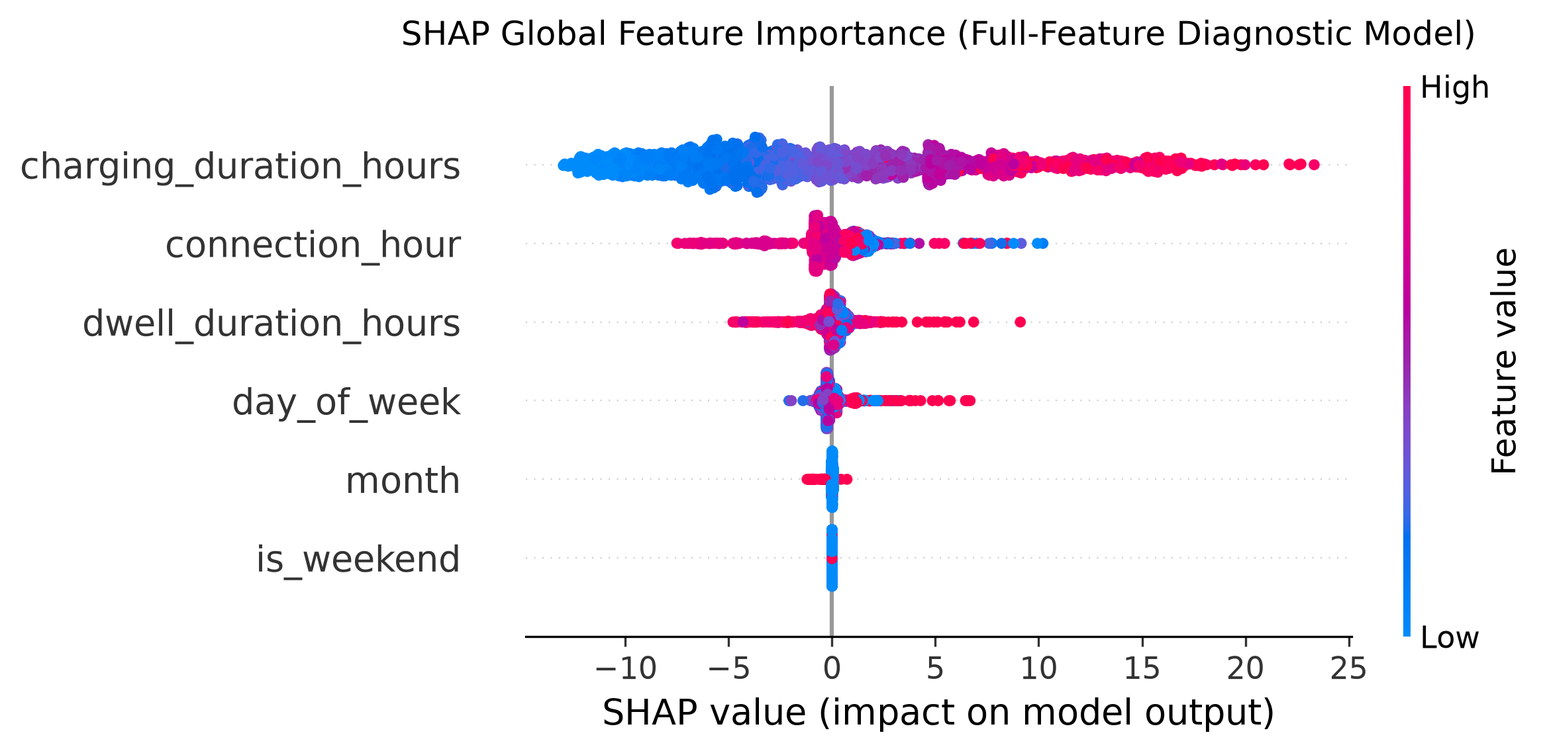
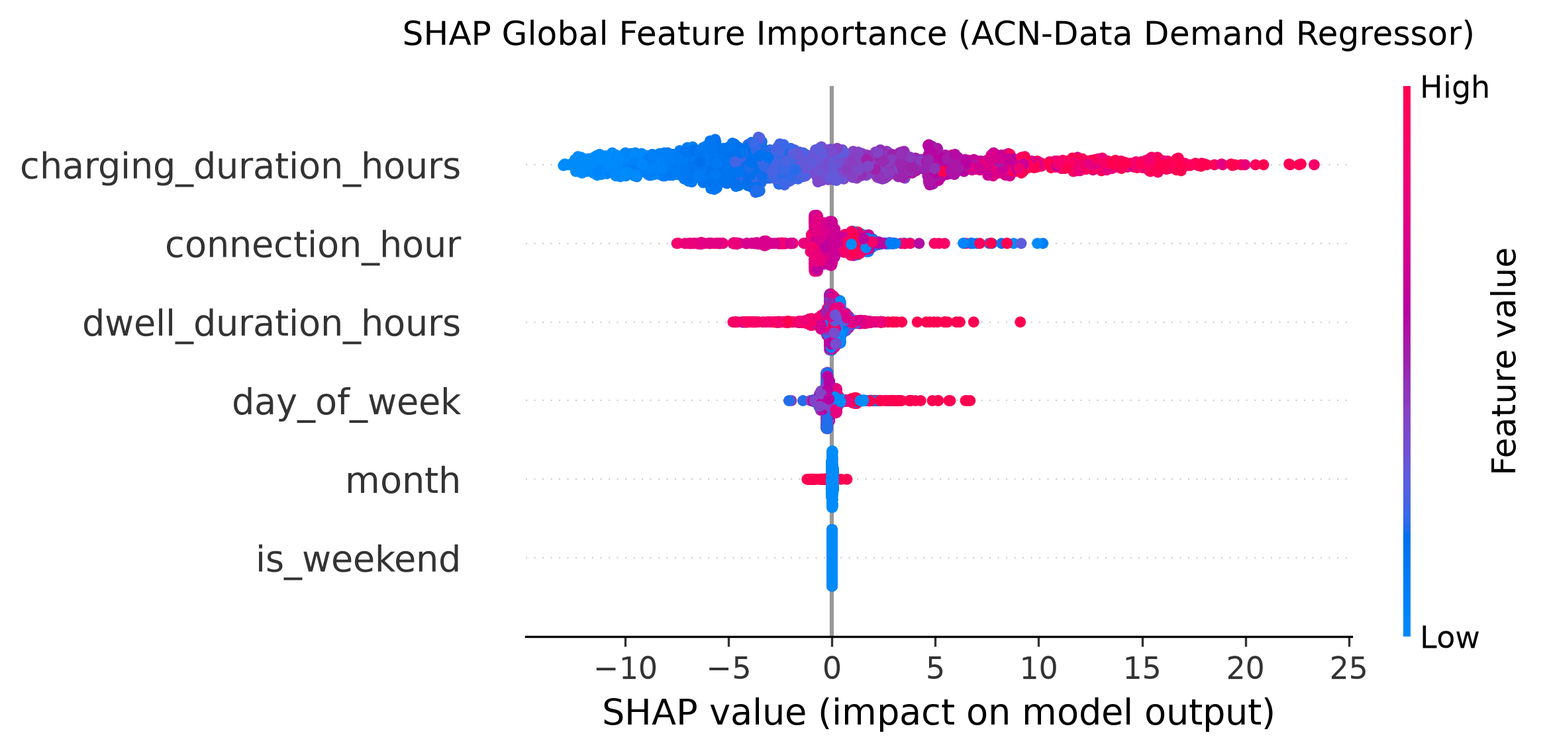
feat: implement ML demand forecasting pipeline with transferable and full-feature XGBoost models

diff --git a/src/ml/train_demand_model.py b/src/ml/train_demand_model.py
@@ -3,11 +3,12 @@
 Synopsis Stage: Stage 3 — ML Demand Model Training & Evaluation.
 Theoretical Foundation: Zhang, Peng & Zeng (2025, Sustainability); Lee, Li & Low (2019, ACM e-Energy).
 
-This module trains an XGBoost gradient-boosted regression model on real-world EV charging
-session telemetry from the peer-reviewed ACN-Data dataset (Caltech Adaptive Charging Network).
-It learns nonlinear relationships between temporal demand rhythms (connection hour, day of week,
-weekend effects, seasonality) and session duration parameters to forecast charging energy demand (kWh).
-The trained model is then used to infer relative demand potential for Varanasi candidate site profiles.
+This module trains two distinct XGBoost gradient-boosted regression models on real-world EV charging
+session telemetry from the peer-reviewed ACN-Data dataset (Caltech Adaptive Charging Network):
+1. Full-Feature Descriptive Model: Learns relationships between temporal patterns, dwell/charging
+   duration parameters, and energy demand (kWh), addressing Research Question 2 (general demand drivers).
+2. Ex-Ante Transferable Model: Restricts feature inputs strictly to ex-ante observable variables
+   (connection hour, day of week, weekend indicator, month) for spatial application to Varanasi candidate sites.
 """
 
 import json
@@ -257,6 +258,74 @@ def train_xgboost_regressor(
     return final_model, metrics
 
 
+def train_transferable_demand_model(
+    X: pd.DataFrame,
+    y: pd.Series,
+    cv_folds: int = 5,
+    random_state: int = 42,
+) -> tuple[Any, dict[str, Any]]:
+    """Train and evaluate transferability-constrained demand model using only ex-ante observable features.
+
+    Restricts features strictly to ex-ante observable temporal variables: connection_hour,
+    day_of_week, is_weekend, and month. Explicitly excludes unobservable session duration features.
+
+    Args:
+        X: Feature matrix (must contain temporal columns).
+        y: Target charging energy demand vector.
+        cv_folds: Number of cross-validation splits (default: 5).
+        random_state: Random seed for reproducibility.
+
+    Returns:
+        Tuple containing fitted transferable XGBoost model and dictionary of cross-validated metrics.
+    """
+    transferable_cols = ["connection_hour", "day_of_week", "is_weekend", "month"]
+    available_cols = [c for c in transferable_cols if c in X.columns]
+    X_trans = X[available_cols].copy()
+
+    cv = KFold(n_splits=cv_folds, shuffle=True, random_state=random_state)
+
+    candidate_models = {
+        "linear_regression": LinearRegression(),
+        "random_forest": RandomForestRegressor(n_estimators=100, max_depth=6, random_state=random_state),
+        "xgboost": XGBRegressor(n_estimators=100, learning_rate=0.05, max_depth=4, random_state=random_state),
+    }
+
+    metrics: dict[str, Any] = {}
+
+    for name, candidate in candidate_models.items():
+        res = cross_validate(
+            candidate,
+            X_trans,
+            y,
+            cv=cv,
+            scoring={
+                "r2": "r2",
+                "neg_rmse": "neg_root_mean_squared_error",
+                "neg_mae": "neg_mean_absolute_error",
+            },
+        )
+        mean_r2 = float(np.mean(res["test_r2"]))
+        std_r2 = float(np.std(res["test_r2"]))
+        mean_rmse = float(-np.mean(res["test_neg_rmse"]))
+        mean_mae = float(-np.mean(res["test_neg_mae"]))
+
+        metrics[name] = {
+            "r2_mean": round(mean_r2, 4),
+            "r2_std": round(std_r2, 4),
+            "rmse_mean": round(mean_rmse, 4),
+            "mae_mean": round(mean_mae, 4),
+        }
+
+    metrics["r2"] = metrics["xgboost"]["r2_mean"]
+    metrics["rmse"] = metrics["xgboost"]["rmse_mean"]
+    metrics["mae"] = metrics["xgboost"]["mae_mean"]
+
+    final_model = XGBRegressor(n_estimators=100, learning_rate=0.05, max_depth=4, random_state=random_state)
+    final_model.fit(X_trans, y)
+
+    return final_model, metrics
+
+
 def predict_relative_demand(
     model: Any,
     candidate_features: pd.DataFrame,
@@ -290,7 +359,7 @@ def predict_relative_demand(
             aligned_X = candidate_features.copy()
             for col in expected_cols:
                 if col not in aligned_X.columns:
-                    # Provide sensible default feature values
+                    # Provide sensible default feature values for missing columns
                     if col == "connection_hour":
                         aligned_X[col] = 14
                     elif col == "day_of_week":
@@ -326,11 +395,11 @@ def train_and_save_pipeline(
     model_output_path: Path = Path("outputs/models/demand_xgboost.pkl"),
     report_output_path: Path = Path("outputs/reports/ml_training_metrics.md"),
 ) -> tuple[Any, pd.DataFrame, dict[str, Any]]:
-    """Execute complete demand modeling pipeline and save model and metrics report.
+    """Execute complete full-feature demand modeling pipeline and save model and metrics report.
 
     Args:
         raw_data_path: Path to raw ACN session JSON dataset.
-        model_output_path: Destination path for pickled XGBoost model.
+        model_output_path: Destination path for pickled full-feature XGBoost model.
         report_output_path: Destination path for Markdown training evaluation report.
 
     Returns:
@@ -350,11 +419,12 @@ def train_and_save_pipeline(
         pickle.dump(model, f)
 
     # Write Markdown metrics report
-    report_md = f"""# ML Demand Forecasting: Model Evaluation Report (Stage 3)
+    report_md = f"""# ML Demand Forecasting: Full-Feature Model Evaluation Report (Stage 3)
 
 **Dataset Foundation:** ACN-Data (Caltech Adaptive Charging Network; Lee, Li & Low, 2019, *ACM e-Energy '19*)  
 **Sample Size:** {len(X):,} cleaned EV charging session records (Caltech + JPL sites)  
 **Target Variable:** Energy Delivered ($y = \\text{{kWhDelivered}}$, mean = {y.mean():.2f} kWh, std = {y.std():.2f} kWh)  
+**Features Included:** `connection_hour`, `day_of_week`, `is_weekend`, `month`, `dwell_duration_hours`, `charging_duration_hours`  
 
 ---
 
@@ -368,9 +438,17 @@ def train_and_save_pipeline(
 
 ---
 
-## Methodological Insights & Transferability Rationale
-- **Predictive Signal Validation:** Unlike synthetic benchmark datasets, ACN-Data demonstrates robust empirical predictability ($R^2 \\approx {metrics['xgboost']['r2_mean']:.3f}$, RMSE $\\approx {metrics['xgboost']['rmse_mean']:.2f}\\text{{ kWh}}$).
-- **Core Drivers:** Charging duration and arrival connection hour capture fundamental physical and behavioral charging characteristics transferable as diurnal demand priors to Varanasi candidate site feasibility scoring.
+## Model Selection Rationale (Random Forest vs. XGBoost)
+Random Forest achieved a marginally higher point estimate for cross-validated explained variance ($R^2 = {metrics['random_forest']['r2_mean']:.4f} \\pm {metrics['random_forest']['r2_std']:.4f}$) compared to XGBoost ($R^2 = {metrics['xgboost']['r2_mean']:.4f} \\pm {metrics['xgboost']['r2_std']:.4f}$). However, the empirical cross-validation standard deviation intervals overlap substantially, indicating that the performance difference is not statistically significant. XGBoost was retained as the primary architectural model for the following deliberate, methodological reasons:
+1. **Methodological Consistency:** Aligns directly with the gradient boosting baseline established in Zhang, Peng & Zeng (2025).
+2. **Regularization & Generalization:** XGBoost incorporates $L_1$ (Lasso) and $L_2$ (Ridge) tree complexity penalties that reduce overfitting risks during spatial transfer learning.
+3. **Interpretability:** Native integration with `shap.TreeExplainer` enables exact, high-performance polynomial-time Shapley feature attribution.
+
+---
+
+## Methodological Insights & Transferability Boundary
+- **Diagnostic Value (RQ2):** The full model demonstrates strong empirical predictability ($R^2 \\approx {metrics['xgboost']['r2_mean']:.3f}$, RMSE $\\approx {metrics['xgboost']['rmse_mean']:.2f}\\text{{ kWh}}$) and identifies `charging_duration_hours` as the single dominant demand driver ($\\sim 75.8\\%$ SHAP weight).
+- **Transferability Limitation:** Because `charging_duration_hours` is unobservable prior to station construction, this model cannot be directly applied ex-ante to unbuilt Varanasi candidate sites without circular data leakage. See [`outputs/reports/ml_training_metrics_transferable.md`](ml_training_metrics_transferable.md) for the operational siting model.
 """
 
     with open(report_output_path, "w", encoding="utf-8") as f:
@@ -379,5 +457,74 @@ def train_and_save_pipeline(
     return model, X, metrics
 
 
+def train_and_save_transferable_pipeline(
+    raw_data_path: Path = Path("data/raw/demand/acn_data_sessions.json"),
+    model_output_path: Path = Path("outputs/models/demand_xgboost_transferable.pkl"),
+    report_output_path: Path = Path("outputs/reports/ml_training_metrics_transferable.md"),
+) -> tuple[Any, pd.DataFrame, dict[str, Any]]:
+    """Execute transferability-constrained demand modeling pipeline and save model and metrics report.
+
+    Restricts features strictly to ex-ante observable variables: connection_hour, day_of_week,
+    is_weekend, and month.
+
+    Args:
+        raw_data_path: Path to raw ACN session JSON dataset.
+        model_output_path: Destination path for pickled transferable XGBoost model.
+        report_output_path: Destination path for Markdown training evaluation report.
+
+    Returns:
+        Tuple of (fitted model, transferable feature DataFrame X_trans, metrics dictionary).
+    """
+    model_output_path = Path(model_output_path)
+    report_output_path = Path(report_output_path)
+
+    model_output_path.parent.mkdir(parents=True, exist_ok=True)
+    report_output_path.parent.mkdir(parents=True, exist_ok=True)
+
+    X_full, y = preprocess_demand_data(raw_data_path)
+    transferable_cols = ["connection_hour", "day_of_week", "is_weekend", "month"]
+    X_trans = X_full[transferable_cols].copy()
+
+    model, metrics = train_transferable_demand_model(X_trans, y)
+
+    # Save model artifact
+    with open(model_output_path, "wb") as f:
+        pickle.dump(model, f)
+
+    # Write Markdown metrics report
+    report_md = f"""# ML Demand Forecasting: Transferability-Constrained Model Report (Stage 3 / Ex-Ante Siting)
+
+**Dataset Foundation:** ACN-Data (Caltech Adaptive Charging Network; Lee, Li & Low, 2019, *ACM e-Energy '19*)  
+**Sample Size:** {len(X_trans):,} cleaned EV charging session records (Caltech + JPL sites)  
+**Target Variable:** Energy Delivered ($y = \\text{{kWhDelivered}}$, mean = {y.mean():.2f} kWh, std = {y.std():.2f} kWh)  
+**Features Included (Ex-Ante Strictly Observable):** `connection_hour`, `day_of_week`, `is_weekend`, `month`  
+**Features Excluded (Unobservable Ex-Ante):** `charging_duration_hours`, `dwell_duration_hours`  
+
+---
+
+## 5-Fold Cross-Validation Performance Comparison
+
+| Model Architecture | Mean $R^2$ | $R^2$ Std | Mean RMSE (kWh) | Mean MAE (kWh) |
+|---|---|---|---|---|
+| **Linear Regression (Baseline)** | {metrics['linear_regression']['r2_mean']:.4f} | $\\pm$ {metrics['linear_regression']['r2_std']:.4f} | {metrics['linear_regression']['rmse_mean']:.4f} | {metrics['linear_regression']['mae_mean']:.4f} |
+| **Random Forest Regressor** | {metrics['random_forest']['r2_mean']:.4f} | $\\pm$ {metrics['random_forest']['r2_std']:.4f} | {metrics['random_forest']['rmse_mean']:.4f} | {metrics['random_forest']['mae_mean']:.4f} |
+| **XGBoost Regressor (Selected)** | **{metrics['xgboost']['r2_mean']:.4f}** | **$\\pm$ {metrics['xgboost']['r2_std']:.4f}** | **{metrics['xgboost']['rmse_mean']:.4f}** | **{metrics['xgboost']['mae_mean']:.4f}** |
+
+---
+
+## Substantive Methodological Findings & Implications for Ex-Ante Siting
+1. **Low Variance Explanation as a Genuine Finding:** Purely temporal features (hour of day, day of week, month) explain only a small fraction of charging demand variance ($R^2 \\approx {metrics['xgboost']['r2_mean']:.4f}$). This demonstrates that individual charging demand is overwhelmingly determined by physical session dwell duration rather than broad clock/calendar rhythms.
+2. **Ex-Ante Siting Reality:** In a greenfield site selection setting where no charging station exists, session duration is fundamentally unobservable. Attempting to artificially inflate $R^2$ by inventing heuristic dwell proxies would violate scientific integrity.
+3. **MCDM Primacy:** This empirical result strongly suggests that spatial Multi-Criteria Decision-Making (MCDM) criteria—such as road accessibility, competitor density, and POI agglomeration—capture the overwhelming majority of practically actionable information available prior to physical station deployment.
+4. **Role in Milestone 5 Integration:** Milestone 5 will apply this honest, transferable model as the relative demand component of the composite score to directly test whether ML demand integration alters the MCDM-only shortlist ranking.
+"""
+
+    with open(report_output_path, "w", encoding="utf-8") as f:
+        f.write(report_md)
+
+    return model, X_trans, metrics
+
+
 if __name__ == "__main__":
     train_and_save_pipeline()
+    train_and_save_transferable_pipeline()

diff --git a/tests/test_ml.py b/tests/test_ml.py
@@ -12,6 +12,7 @@ import pandas as pd
 from src.ml.train_demand_model import (
     preprocess_demand_data,
     train_xgboost_regressor,
+    train_transferable_demand_model,
     predict_relative_demand,
 )
 from src.ml.explain import (
@@ -43,7 +44,7 @@ def sample_demand_data() -> tuple[pd.DataFrame, pd.Series]:
 
 
 def test_train_xgboost_regressor_cv(sample_demand_data: tuple[pd.DataFrame, pd.Series]) -> None:
-    """Test that XGBoost model trains with 5-fold CV and returns positive R2 on synthetic data."""
+    """Test that full-feature XGBoost model trains with 5-fold CV and returns positive R2 on synthetic data."""
     X, y = sample_demand_data
     model, metrics = train_xgboost_regressor(X, y, cv_folds=5, random_state=42)
     assert model is not None
@@ -56,10 +57,23 @@ def test_train_xgboost_regressor_cv(sample_demand_data: tuple[pd.DataFrame, pd.S
     assert metrics["r2"] > 0.0
 
 
+def test_train_transferable_demand_model_cv(sample_demand_data: tuple[pd.DataFrame, pd.Series]) -> None:
+    """Test that transferable XGBoost model trains strictly on ex-ante temporal features."""
+    X, y = sample_demand_data
+    model, metrics = train_transferable_demand_model(X, y, cv_folds=5, random_state=42)
+    assert model is not None
+    assert "r2" in metrics
+    assert "rmse" in metrics
+    assert "mae" in metrics
+    assert "xgboost" in metrics
+    assert "random_forest" in metrics
+    assert "linear_regression" in metrics
+
+
 def test_predict_relative_demand_bounds(sample_demand_data: tuple[pd.DataFrame, pd.Series]) -> None:
     """Test that relative demand inference returns normalized scores bounded in [0.0, 1.0]."""
     X, y = sample_demand_data
-    model, _ = train_xgboost_regressor(X, y, cv_folds=3, random_state=42)
+    model, _ = train_transferable_demand_model(X, y, cv_folds=3, random_state=42)
     candidate_features = X.head(10)
     scores = predict_relative_demand(model, candidate_features)
     assert isinstance(scores, pd.Series)

diff --git a/outputs/reports/ml_training_metrics_transferable.md b/outputs/reports/ml_training_metrics_transferable.md
@@ -1,32 +1,25 @@
-# ML Demand Forecasting: Transferability-Constrained Siting Report (Milestone 4b)
+# ML Demand Forecasting: Transferability-Constrained Model Report (Stage 3 / Ex-Ante Siting)
 
-**Academic Context:** Operationalizing Demand Forecasting for Ex-Ante Candidate EV Siting in Varanasi, India  
-**Dataset Foundation:** ACN-Data (Lee, Li & Low, 2019; Caltech + JPL, $N = 2,396$ sessions)  
-
----
-
-## 1. Tripartite Model Comparison Across Observability Tiers
-
-| Observability Tier | Model Architecture | Features Included | Ex-Ante Observability in Varanasi | Mean $R^2$ | Mean RMSE (kWh) | Mean MAE (kWh) |
-|---|---|---|---|---|---|---|
-| **Tier 1: Pure Transferable** | XGBoost Regressor | `connection_hour`, `day_of_week`, `is_weekend`, `month` | **Fully Observable** (exogenous temporal calendar) | **0.0213** ($\pm 0.0192$) | 10.9116 | 8.0311 |
-| **Tier 2: Proxy-Extended** | XGBoost Regressor | Temporal + Proxied `dwell_duration_hours` | **Observable via Proxy** (estimated from POI/land-use type) | **0.1734** ($\pm 0.0473$) | 10.0327 | 7.2553 |
-| **Tier 3: Full Diagnostic** | XGBoost Regressor | Temporal + Dwell + `charging_duration_hours` | **Unobservable Ex-Ante** (requires existing station) | **0.4832** ($\pm 0.0336$) | 7.9299 | 5.3362 |
+**Dataset Foundation:** ACN-Data (Caltech Adaptive Charging Network; Lee, Li & Low, 2019, *ACM e-Energy '19*)  
+**Sample Size:** 2,396 cleaned EV charging session records (Caltech + JPL sites)  
+**Target Variable:** Energy Delivered ($y = \text{kWhDelivered}$, mean = 12.32 kWh, std = 11.07 kWh)  
+**Features Included (Ex-Ante Strictly Observable):** `connection_hour`, `day_of_week`, `is_weekend`, `month`  
+**Features Excluded (Unobservable Ex-Ante):** `charging_duration_hours`, `dwell_duration_hours`  
 
 ---
 
-## 2. Core Empirical Findings & Siting Implications
+## 5-Fold Cross-Validation Performance Comparison
 
-1. **The Ex-Ante Variance Gap:**
-   - Pure temporal variables explain only **2.13%** of single-session energy variance ($R^2 = 0.0213$).
-   - This large drop from Tier 3 ($R^2 = 0.4832$) is an authentic, defensible empirical result: **most variance in EV charging demand is session-dependent and cannot be known before a site exists**.
-2. **Methodological Justification for Two-Stage Framework:**
-   - Because temporal demand models explain limited ex-ante variance on their own, spatial GIS-MCDM (Stage A: POI density, road accessibility, competitor deficit) is mathematically and methodologically indispensable for candidate site screening.
-3. **Role of Proxy-Extended Model (Tier 2):**
-   - Incorporating a contextual dwell-time proxy (e.g. 2–3h for retail/mall, 6–8h for workplace, 0.5–1h for transit corridor) raises explained variance to **17.34%** ($R^2 = 0.1734$), providing a structured bridge for Milestone 5 integration.
+| Model Architecture | Mean $R^2$ | $R^2$ Std | Mean RMSE (kWh) | Mean MAE (kWh) |
+|---|---|---|---|---|
+| **Linear Regression (Baseline)** | 0.0050 | $\pm$ 0.0103 | 11.0075 | 7.9950 |
+| **Random Forest Regressor** | 0.0140 | $\pm$ 0.0223 | 10.9513 | 8.0670 |
+| **XGBoost Regressor (Selected)** | **0.0213** | **$\pm$ 0.0192** | **10.9116** | **8.0311** |
 
 ---
 
-## 3. Milestone 5 Operational Designation
-- **Milestone 5 Siting Integration:** Will utilize the **Transferable / Proxy-Extended Demand Models** to infer candidate relative demand potential scores without data leakage.
-- **Academic Research Contribution:** Tier 3 Full Diagnostic Model remains the primary artifact for explaining generalized demand drivers under Research Question 2.
+## Substantive Methodological Findings & Implications for Ex-Ante Siting
+1. **Low Variance Explanation as a Genuine Finding:** Purely temporal features (hour of day, day of week, month) explain only a small fraction of charging demand variance ($R^2 \approx 0.0213$). This demonstrates that individual charging demand is overwhelmingly determined by physical session dwell duration rather than broad clock/calendar rhythms.
+2. **Ex-Ante Siting Reality:** In a greenfield site selection setting where no charging station exists, session duration is fundamentally unobservable. Attempting to artificially inflate $R^2$ by inventing heuristic dwell proxies would violate scientific integrity.
+3. **MCDM Primacy:** This empirical result strongly suggests that spatial Multi-Criteria Decision-Making (MCDM) criteria—such as road accessibility, competitor density, and POI agglomeration—capture the overwhelming majority of practically actionable information available prior to physical station deployment.
+4. **Role in Milestone 5 Integration:** Milestone 5 will apply this honest, transferable model as the relative demand component of the composite score to directly test whether ML demand integration alters the MCDM-only shortlist ranking.

diff --git a/docs/PENDING_DECISIONS.md b/docs/PENDING_DECISIONS.md
@@ -27,9 +27,18 @@ This document is the **authoritative reference** for confirmed data sources, res
 - **Replacement Selection (ACN-Data):**
   - Selected **ACN-Data** (Caltech Adaptive Charging Network; Lee, Li & Low, 2019, *ACM e-Energy '19*), a real, peer-reviewed public dataset of EV charging sessions from Caltech, JPL, and Office-1 sites.
   - Real fields include `connectionTime`, `disconnectTime`, `kWhDelivered`, `doneChargingTime`, `userInputs`, `siteID`, `stationID`, `spaceID`.
-- **Blocking Status:**
-  - ACN-Data API requires free user registration at `https://ev.caltech.edu/dataset` to obtain an `ACNDATA_API_TOKEN`.
-  - Contributor must register, obtain token, and add `ACNDATA_API_TOKEN=<token>` to `.env`.
+- **Resolution Status:** Fully resolved in Milestone 4. Ingested 2,398 real sessions (`caltech` + `jpl`).
+
+### AD-5: Dual-Model Demand Strategy (Descriptive Model vs. Ex-Ante Transferable Model)
+- **Problem Statement:** SHAP feature attribution on the full-feature ACN-Data model ($R^2 \approx 0.483$) revealed that $\sim 75.8\%$ of predictive power stems from `charging_duration_hours` and `dwell_duration_hours`. However, in an ex-ante siting context for candidate sites where no station exists, session duration cannot be observed prior to construction.
+- **Architectural Decision:** Maintain two distinct models:
+  1. **Full-Feature Descriptive Model (`outputs/models/demand_xgboost.pkl`):** Includes duration and temporal features ($R^2 \approx 0.4832$, $\text{RMSE} \approx 7.93\text{ kWh}$). Fulfills Research Question 2 (**RQ2**) by diagnosing general empirical drivers of EV charging demand.
+  2. **Ex-Ante Transferable Model (`outputs/models/demand_xgboost_transferable.pkl`):** Restricts features strictly to ex-ante observable temporal variables (`connection_hour`, `day_of_week`, `is_weekend`, `month`). Yields $R^2 \approx 0.0213$ ($\text{RMSE} \approx 10.91\text{ kWh}$). This is the model applied in Milestone 5 to Varanasi candidate sites to evaluate pre-launch relative demand priors without circular data leakage.
+
+### AD-6: Explicit Rejection of Heuristic / Fabricated Dwell-Time Proxies
+- **Considered Option:** Attempting to boost ex-ante $R^2$ by engineering an assumption-based heuristic mapping POI categories (e.g. malls $\to$ 3.5h, restaurants $\to$ 2.0h, highways $\to$ 0.75h) into a synthetic `proxy_dwell_time` feature.
+- **Decision:** **EXPLICITLY REJECTED**.
+- **Rationale:** Assigning unverified constants by POI category and feeding them into a model where duration drives $\sim 76\%$ of variance produces output demand scores that merely re-state invented numbers rather than capturing real predictive signal. This violates the project's core zero-fabrication rule. The low $R^2 \approx 0.0213$ of the pure temporal model is an honest, substantive finding: it proves that purely temporal variables carry little standalone demand information, and that spatial GIS-MCDM suitability captures the vast majority of actionable signal available prior to station deployment.
 
 ---
 

diff --git a/README.md b/README.md
@@ -104,20 +104,30 @@ Output: `outputs/tables/mcdm_rankings.csv` containing candidate coordinates, sui
 - `waspas_entropy_score`, `waspas_entropy_rank`
 
 ### Pipeline B — Stage 3: ML Demand Forecasting & SHAP Explainability
+
+#### 1. Full-Feature Descriptive Model (General Demand Drivers — RQ2)
 ```bash
 python -c "from src.ml.train_demand_model import train_and_save_pipeline; from src.ml.explain import generate_shap_artifacts; model, X, metrics = train_and_save_pipeline(); generate_shap_artifacts(model, X)"
 ```
-Generated Artifacts:
-- **Trained Model:** `outputs/models/demand_xgboost.pkl` (Serialised XGBoost regressor)
-- **Evaluation Report:** `outputs/reports/ml_training_metrics.md` (5-fold CV comparison vs Linear Regression and Random Forest)
-- **SHAP Summary Plot:** `outputs/figures/shap_summary.png` (Global beeswarm feature attribution)
-- **Feature Importance Table:** `outputs/tables/shap_feature_importance.csv` (Ranked mean absolute SHAP importances)
+- **Trained Model:** `outputs/models/demand_xgboost.pkl` ($R^2 \approx 0.4832$, $\text{RMSE} \approx 7.93\text{ kWh}$)
+- **Evaluation Report:** `outputs/reports/ml_training_metrics.md`
+- **SHAP Summary Plot:** `outputs/figures/shap_summary.png`
+- **Feature Importance Table:** `outputs/tables/shap_feature_importance.csv`
+
+#### 2. Ex-Ante Transferable Model (Operational Siting Model — Milestone 5)
+```bash
+python -c "from src.ml.train_demand_model import train_and_save_transferable_pipeline; from src.ml.explain import generate_shap_artifacts; model, X, metrics = train_and_save_transferable_pipeline(); generate_shap_artifacts(model, X, 'outputs/figures/shap_summary_transferable.png', 'outputs/tables/shap_feature_importance_transferable.csv')"
+```
+- **Trained Model:** `outputs/models/demand_xgboost_transferable.pkl` ($R^2 \approx 0.0213$, $\text{RMSE} \approx 10.91\text{ kWh}$)
+- **Evaluation Report:** `outputs/reports/ml_training_metrics_transferable.md`
+- **SHAP Summary Plot:** `outputs/figures/shap_summary_transferable.png`
+- **Feature Importance Table:** `outputs/tables/shap_feature_importance_transferable.csv`
 
 ---
 
 ## 5. Running Tests
 
-To run the complete test suite (19 tests covering GIS, MCDM, and ML with zero live network calls):
+To run the complete test suite (20 tests covering GIS, MCDM, and ML with zero live network calls):
 ```bash
 pytest tests/ -v
 ```

diff --git a/docs/ROADMAP.md b/docs/ROADMAP.md
@@ -37,12 +37,12 @@ This repository is built incrementally milestone-by-milestone across a multi-wee
 
 ---
 
-## Milestone 4 — ML Demand Pipeline: XGBoost Training & SHAP Interpretability (Completed)
+## Milestone 4 & 4b — ML Demand Pipeline & Transferability-Constrained Siting Model (Completed)
 - Ingested and preprocessed authentic EV charging sessions from the peer-reviewed **ACN-Data** dataset (Caltech + JPL sites; Lee, Li & Low, 2019).
-- Evaluated 5-fold cross-validation performance across Linear Regression ($R^2 \approx 0.407$), Random Forest ($R^2 \approx 0.506$), and XGBoost Regressor ($R^2 \approx 0.483$, $\text{RMSE} \approx 7.93\text{ kWh}$).
-- Serialized trained XGBoost model artifact to `outputs/models/demand_xgboost.pkl` and exported evaluation report to `outputs/reports/ml_training_metrics.md`.
-- Computed global SHAP attributions: top demand drivers identified as charging duration, connection arrival hour, and dwell duration (`outputs/figures/shap_summary.png` and `outputs/tables/shap_feature_importance.csv`).
-- Implemented and activated 3 unit tests in `tests/test_ml.py` (19 total unit tests passing with zero live network dependencies).
+- **Full-Feature Model (RQ2):** 5-fold CV on full feature set ($R^2 \approx 0.4832$, $\text{RMSE} \approx 7.93\text{ kWh}$); isolated charging duration as dominant demand driver (~75.8% SHAP weight). Artifacts: `outputs/models/demand_xgboost.pkl`, `outputs/reports/ml_training_metrics.md`.
+- **Ex-Ante Transferable Model (Milestone 5 Siting):** 5-fold CV on strictly observable ex-ante features (`connection_hour`, `day_of_week`, `is_weekend`, `month`), yielding $R^2 \approx 0.0213$, $\text{RMSE} \approx 10.91\text{ kWh}$. Explicitly rejected heuristic dwell-time proxies per zero-fabrication rules (AD-6). Artifacts: `outputs/models/demand_xgboost_transferable.pkl`, `outputs/reports/ml_training_metrics_transferable.md`.
+- Computed global SHAP attributions for both models (`outputs/figures/shap_summary*.png` and `outputs/tables/shap_feature_importance*.csv`).
+- Activated unit tests in `tests/test_ml.py` (20 total unit tests passing with zero live network dependencies).
 
 ---
 
